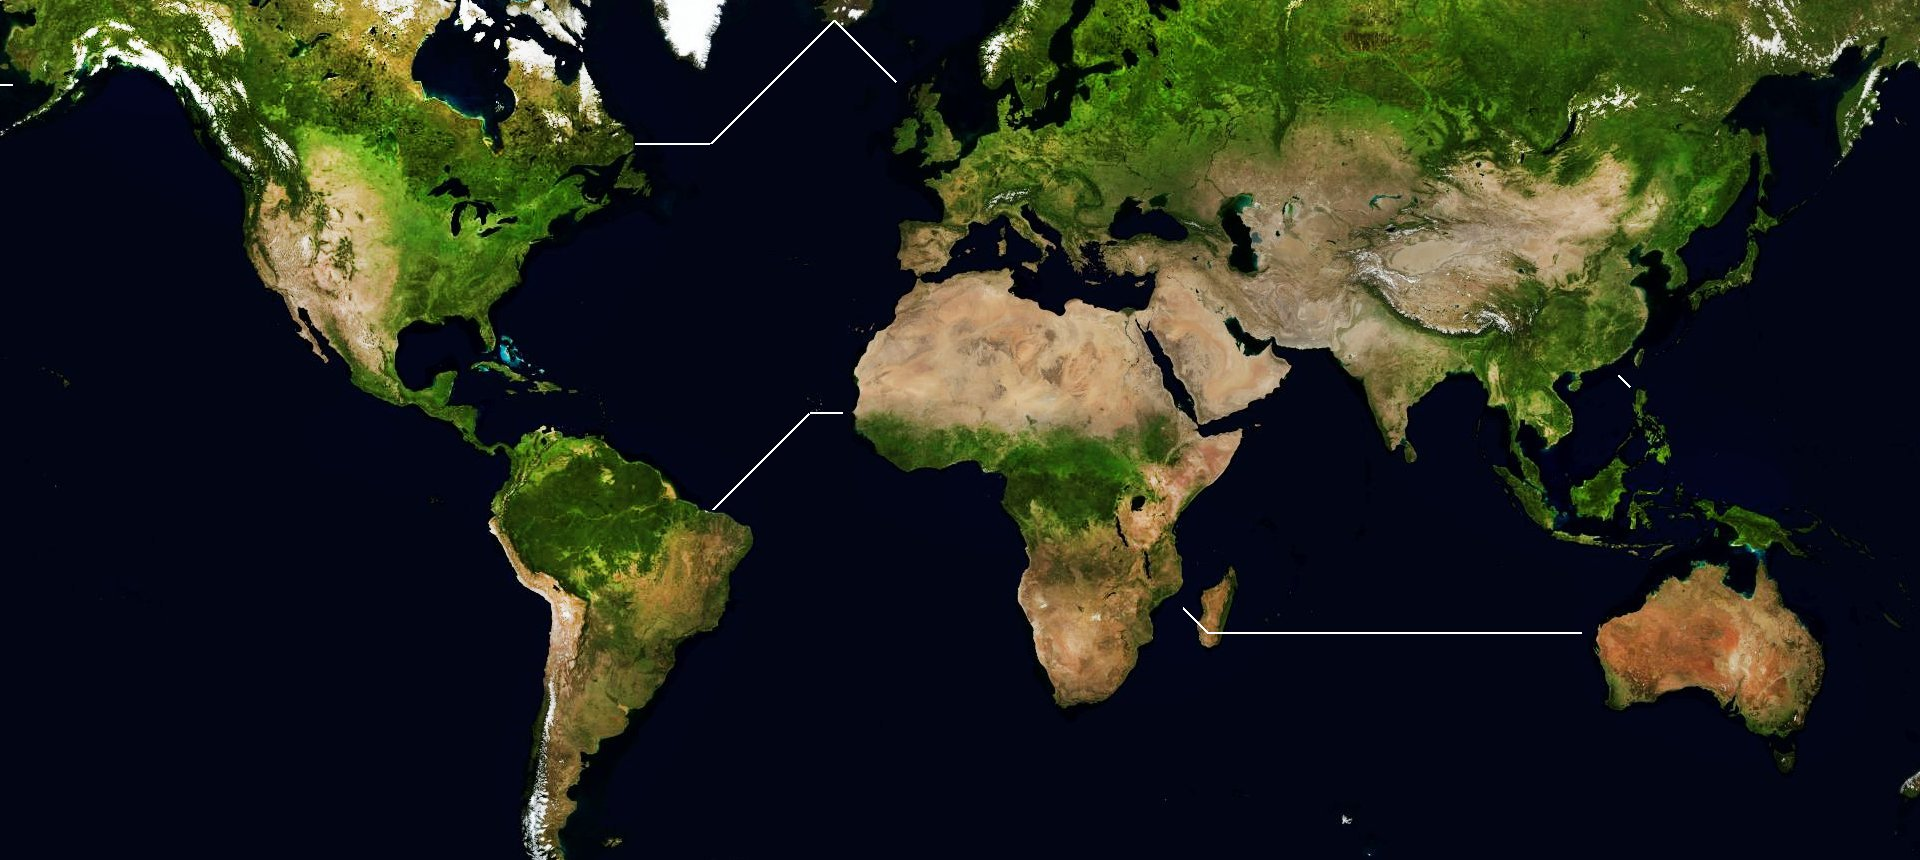
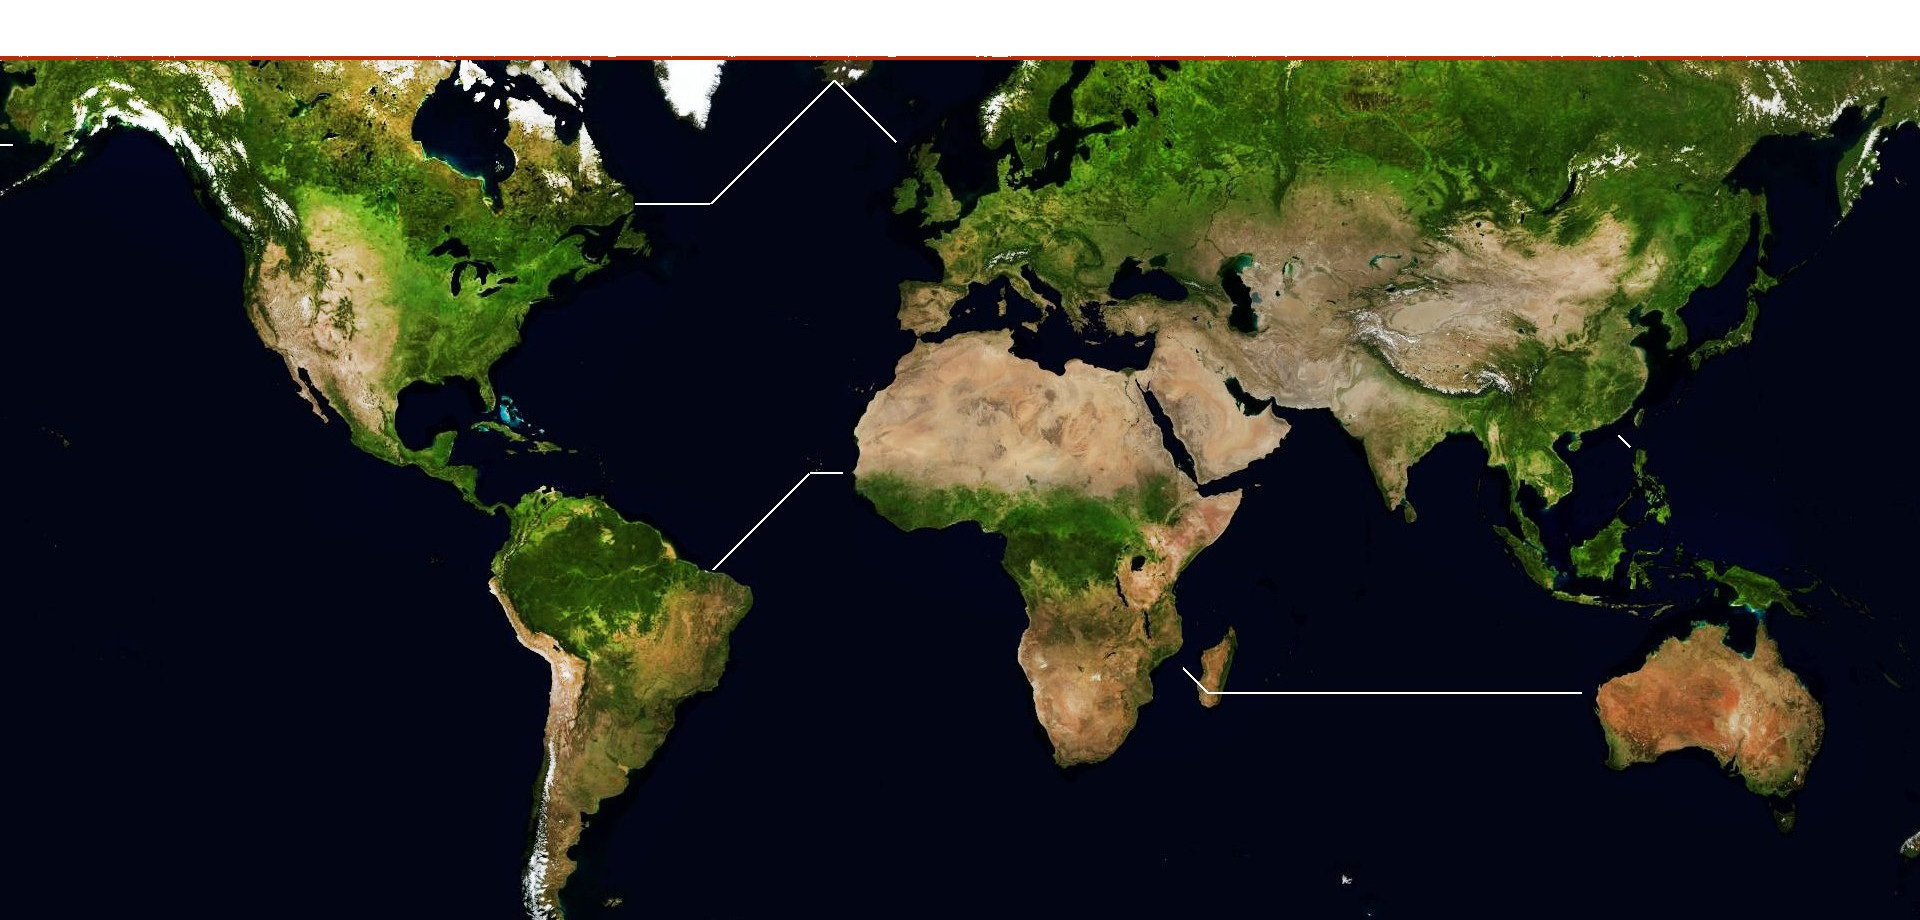
background map

diff --git a/resources/public/script2.js b/resources/public/script2.js
@@ -272,8 +272,8 @@ $(document).ready(  function (){
     var basemap = new OpenLayers.Layer.Image(
         'map',
         'img/map-connections.jpg',
-        new OpenLayers.Bounds(-180, -88.759, 180, 88.759),
-        new OpenLayers.Size(1920, 860 ),
+        new OpenLayers.Bounds(-180,-88.759,180,102),
+        new OpenLayers.Size(1920 / 2, 860 / 2 ),
         {numZoomLevels: 3}
     );
 
@@ -524,7 +524,7 @@ $(document).ready(  function (){
    map.addLayers([basemap, territories, features]);
    features.setVisibility(false);
    map.addControl(new OpenLayers.Control.LayerSwitcher());
-   map.zoomToMaxExtent();
+   map.zoomTo(1);
 
    selectControl = new OpenLayers.Control.SelectFeature([territories, features], {hover:false,box:false,onSelect: onFeatureSelect, onUnselect: onFeatureUnselect});
    map.addControl(selectControl);
